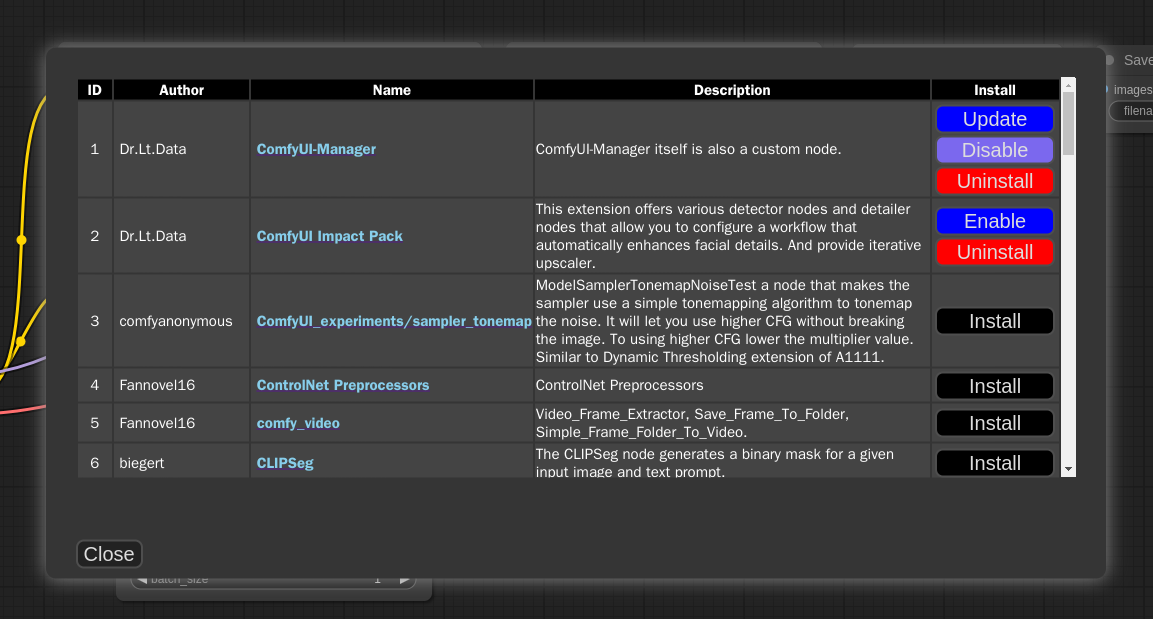
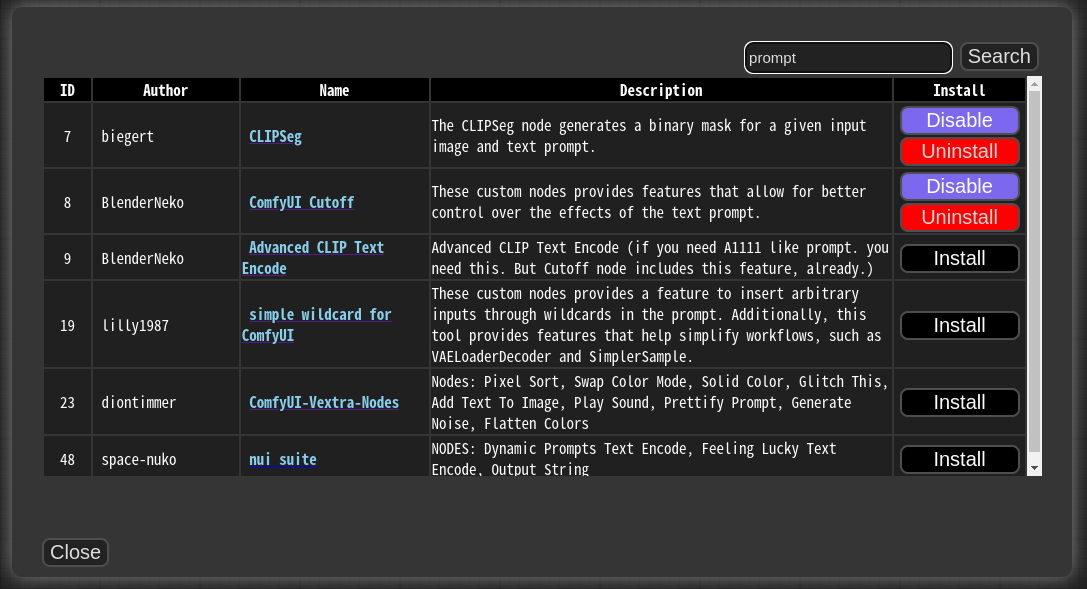
support keyword search

diff --git a/js/comfyui-manager.js b/js/comfyui-manager.js
@@ -218,6 +218,7 @@ class CustomNodesInstaller extends ComfyDialog {
 
 	constructor() {
 		super();
+		this.search_keyword = '';
 		this.element = $el("div.comfy-modal", { parent: document.body }, []);
 	}
 
@@ -229,6 +230,22 @@ class CustomNodesInstaller extends ComfyDialog {
 		for(let i in self.install_buttons) {
 			self.install_buttons[i].disabled = true;
 			self.install_buttons[i].style.backgroundColor = 'gray';
+		}
+	}
+
+	apply_searchbox(data) {
+		let keyword = this.search_box.value.toLowerCase();
+		for(let i in this.grid_rows) {
+			let data = this.grid_rows[i].data;
+			let content = data.author.toLowerCase() + data.description.toLowerCase() + data.title.toLowerCase();
+			if(keyword == "")
+				this.grid_rows[i].control.style.display = null;
+			else if(content.includes(keyword)) {
+				this.grid_rows[i].control.style.display = null;
+			}
+			else {
+				this.grid_rows[i].control.style.display = 'none';
+			}
 		}
 	}
 
@@ -280,7 +297,9 @@ class CustomNodesInstaller extends ComfyDialog {
 
 		const msg = $el('div', {id:'custom-message'}, 
 			[$el('br'), 
-			'The custom node DB is currently being updated, and updates to custom nodes are being checked for.', 
+			'The custom node DB is currently being updated, and updates to custom nodes are being checked for.',
+			$el('br'),
+			'NOTE: Update only checks for extensions that have been fetched.',
 			$el('br')]);
 		msg.style.height = '100px';
 		msg.style.verticalAlign = 'middle';
@@ -298,8 +317,10 @@ class CustomNodesInstaller extends ComfyDialog {
 			this.element.removeChild(this.element.children[0]);
 		}
 
+		this.createHeaderControls();
 		await this.createGrid();
-		this.createControls();
+		this.apply_searchbox(this.data);
+		this.createBottomControls();
 	}
 
 	updateMessage(msg) {
@@ -342,6 +363,8 @@ class CustomNodesInstaller extends ComfyDialog {
 		headerRow.style.width = "100%";
 		headerRow.style.padding = "0";
 		grid.appendChild(headerRow);
+
+		this.grid_rows = {};
 
 		if(this.data)
 			for (var i = 0; i < this.data.length; i++) {
@@ -455,6 +478,8 @@ class CustomNodesInstaller extends ComfyDialog {
 				dataRow.appendChild(data4);
 				dataRow.appendChild(data5);
 				grid.appendChild(dataRow);
+
+				this.grid_rows[i] = {data:data, control:dataRow};
 			}
 
 		const panel = document.createElement('div');
@@ -466,10 +491,43 @@ class CustomNodesInstaller extends ComfyDialog {
 		this.element.appendChild(panel);
 	}
 
-	async createControls() {
-		var close_button = document.createElement("button");
+	createHeaderControls() {
+		this.search_box = $el('input', {type:'text', id:'manager-customnode-search-box', placeholder:'input search keyword', value:this.search_keyword}, []);
+		this.search_box.style.height = "25px";
+		this.search_box.onkeydown = (event) => {
+				if (event.key === 'Enter') {
+					this.search_keyword = this.search_box.value;
+					this.apply_searchbox();
+				}
+				if (event.key === 'Escape') {
+					this.search_keyword = this.search_box.value;
+					this.search_box.value = '';
+					this.apply_searchbox();
+				}
+			};
+
+		let search_button = document.createElement("button");
+		search_button.innerHTML = "Search";
+		search_button.onclick = () => {
+			this.apply_searchbox();
+		};
+		search_button.style.display = "inline-block";
+
+		let cell = $el('td', {width:'100%'}, [this.search_box, '  ', search_button]);
+		let search_control = $el('table', {width:'100%'},
+				[
+					$el('tr', {}, [cell])
+				]
+			);
+
+		cell.style.textAlign = "right";
+		this.element.appendChild(search_control);
+	}
+
+	async createBottomControls() {
+		let close_button = document.createElement("button");
 		close_button.innerHTML = "Close";
-		close_button.onclick = () => { this.close(); }
+		close_button.onclick = () => { this.search_keyword = ''; this.close(); }
 		close_button.style.display = "inline-block";
 
 		this.message_box = $el('div', {id:'custom-installer-message'}, [$el('br'), '']);
@@ -509,6 +567,7 @@ class AlternativesInstaller extends ComfyDialog {
 
 	constructor() {
 		super();
+		this.search_keyword = '';
 		this.element = $el("div.comfy-modal", { parent: document.body }, []);
 	}
 
@@ -523,6 +582,23 @@ class AlternativesInstaller extends ComfyDialog {
 		}
 	}
 
+	apply_searchbox(data) {
+		let keyword = this.search_box.value.toLowerCase();
+		for(let i in this.grid_rows) {
+			let data1 = this.grid_rows[i].data;
+			let data2 = data1.custom_node;
+			let content = data1.tags.toLowerCase() + data1.description.toLowerCase() + data2.author.toLowerCase() + data2.description.toLowerCase() + data2.title.toLowerCase();
+			if(keyword == "")
+				this.grid_rows[i].control.style.display = null;
+			else if(content.includes(keyword)) {
+				this.grid_rows[i].control.style.display = null;
+			}
+			else {
+				this.grid_rows[i].control.style.display = 'none';
+			}
+		}
+	}
+
 	async invalidateControl() {
 		this.clear();
 
@@ -534,6 +610,8 @@ class AlternativesInstaller extends ComfyDialog {
 		const msg = $el('div', {id:'custom-message'},
 			[$el('br'),
 			'The custom node DB is currently being updated, and updates to custom nodes are being checked for.',
+			$el('br'),
+			'NOTE: Update only checks for extensions that have been fetched.',
 			$el('br')]);
 		msg.style.height = '100px';
 		msg.style.verticalAlign = 'middle';
@@ -548,8 +626,10 @@ class AlternativesInstaller extends ComfyDialog {
 			this.element.removeChild(this.element.children[0]);
 		}
 
+		this.createHeaderControls();
 		await this.createGrid();
-		this.createControls();
+		this.apply_searchbox(this.data);
+		this.createBottomControls();
 	}
 
 	updateMessage(msg) {
@@ -596,6 +676,8 @@ class AlternativesInstaller extends ComfyDialog {
 		headerRow.style.width = "100%";
 		headerRow.style.padding = "0";
 		grid.appendChild(headerRow);
+
+		this.grid_rows = {};
 
 		if(this.data)
 			for (var i = 0; i < this.data.length; i++) {
@@ -724,6 +806,8 @@ class AlternativesInstaller extends ComfyDialog {
 				dataRow.appendChild(data5);
 				dataRow.appendChild(data6);
 				grid.appendChild(dataRow);
+
+				this.grid_rows[i] = {data:data, control:dataRow};
 			}
 
 		const panel = document.createElement('div');
@@ -735,7 +819,40 @@ class AlternativesInstaller extends ComfyDialog {
 		this.element.appendChild(panel);
 	}
 
-	async createControls() {
+	createHeaderControls() {
+		this.search_box = $el('input', {type:'text', id:'manager-alternode-search-box', placeholder:'input search keyword', value:this.search_keyword}, []);
+		this.search_box.style.height = "25px";
+		this.search_box.onkeydown = (event) => {
+				if (event.key === 'Enter') {
+					this.search_keyword = this.search_box.value;
+					this.apply_searchbox();
+				}
+				if (event.key === 'Escape') {
+					this.search_keyword = this.search_box.value;
+					this.search_box.value = '';
+					this.apply_searchbox();
+				}
+			};
+
+		let search_button = document.createElement("button");
+		search_button.innerHTML = "Search";
+		search_button.onclick = () => {
+			this.apply_searchbox();
+		};
+		search_button.style.display = "inline-block";
+
+		let cell = $el('td', {width:'100%'}, [this.search_box, '  ', search_button]);
+		let search_control = $el('table', {width:'100%'},
+				[
+					$el('tr', {}, [cell])
+				]
+			);
+
+		cell.style.textAlign = "right";
+		this.element.appendChild(search_control);
+	}
+
+	async createBottomControls() {
 		var close_button = document.createElement("button");
 		close_button.innerHTML = "Close";
 		close_button.onclick = () => { this.close(); }
@@ -778,6 +895,7 @@ class ModelInstaller extends ComfyDialog {
 
 	constructor() {
 		super();
+		this.search_keyword = '';
 		this.element = $el("div.comfy-modal", { parent: document.body }, []);
 	}
 
@@ -802,6 +920,22 @@ class ModelInstaller extends ComfyDialog {
 		}
 	}
 
+	apply_searchbox(data) {
+		let keyword = this.search_box.value.toLowerCase();
+		for(let i in this.grid_rows) {
+			let data = this.grid_rows[i].data;
+			let content = data.name.toLowerCase() + data.type.toLowerCase() + data.base.toLowerCase() + data.description.toLowerCase();
+			if(keyword == "")
+				this.grid_rows[i].control.style.display = null;
+			else if(content.includes(keyword)) {
+				this.grid_rows[i].control.style.display = null;
+			}
+			else {
+				this.grid_rows[i].control.style.display = 'none';
+			}
+		}
+	}
+
 	async invalidateControl() {
 		this.clear();
 		this.data = (await getModelList()).models;
@@ -810,8 +944,9 @@ class ModelInstaller extends ComfyDialog {
 			this.element.removeChild(this.element.children[0]);
 		}
 
+		await this.createHeaderControls();
 		await this.createGrid();
-		this.createControls();
+		await this.createBottomControls();
 	}
 
 	updateMessage(msg) {
@@ -864,6 +999,8 @@ class ModelInstaller extends ComfyDialog {
 		headerRow.style.width = "100%";
 		headerRow.style.padding = "0";
 		grid.appendChild(headerRow);
+
+		this.grid_rows = {};
 
 		if(this.data)
 			for (var i = 0; i < this.data.length; i++) {
@@ -925,6 +1062,8 @@ class ModelInstaller extends ComfyDialog {
 				dataRow.appendChild(data6);
 				dataRow.appendChild(data_install);
 				grid.appendChild(dataRow);
+
+				this.grid_rows[i] = {data:data, control:dataRow};
 			}
 
 		const panel = document.createElement('div');
@@ -936,7 +1075,40 @@ class ModelInstaller extends ComfyDialog {
 		this.element.appendChild(panel);
 	}
 
-	async createControls() {
+	createHeaderControls() {
+		this.search_box = $el('input', {type:'text', id:'manager-model-search-box', placeholder:'input search keyword', value:this.search_keyword}, []);
+		this.search_box.style.height = "25px";
+		this.search_box.onkeydown = (event) => {
+				if (event.key === 'Enter') {
+					this.search_keyword = this.search_box.value;
+					this.apply_searchbox();
+				}
+				if (event.key === 'Escape') {
+					this.search_keyword = this.search_box.value;
+					this.search_box.value = '';
+					this.apply_searchbox();
+				}
+			};
+
+		let search_button = document.createElement("button");
+		search_button.innerHTML = "Search";
+		search_button.onclick = () => {
+			this.apply_searchbox();
+		};
+		search_button.style.display = "inline-block";
+
+		let cell = $el('td', {width:'100%'}, [this.search_box, '  ', search_button]);
+		let search_control = $el('table', {width:'100%'},
+				[
+					$el('tr', {}, [cell])
+				]
+			);
+
+		cell.style.textAlign = "right";
+		this.element.appendChild(search_control);
+	}
+
+	async createBottomControls() {
 		var close_button = document.createElement("button");
 		close_button.innerHTML = "Close";
 		close_button.onclick = () => { this.close(); }

diff --git a/__init__.py b/__init__.py
@@ -16,7 +16,7 @@ sys.path.append('../..')
 from torchvision.datasets.utils import download_url
 
 # ensure .js
-print("### Loading: ComfyUI-Manager (V0.8)")
+print("### Loading: ComfyUI-Manager (V0.9)")
 
 comfy_path = os.path.dirname(folder_paths.__file__)
 custom_nodes_path = os.path.join(comfy_path, 'custom_nodes')

diff --git a/README.md b/README.md
@@ -8,6 +8,7 @@
 
 # Changes
 
+* **0.9** Support keyword search in installer menu.
 * **V0.7.1** Bug fix for the issue where updates were not being applied on Windows.
   * **For those who have been using versions 0.6, please perform a manual git pull in the custom_nodes/ComfyUI-Manager directory.**
 * **V0.7** To address the issue of a slow list refresh, separate the fetch update and update check processes.
